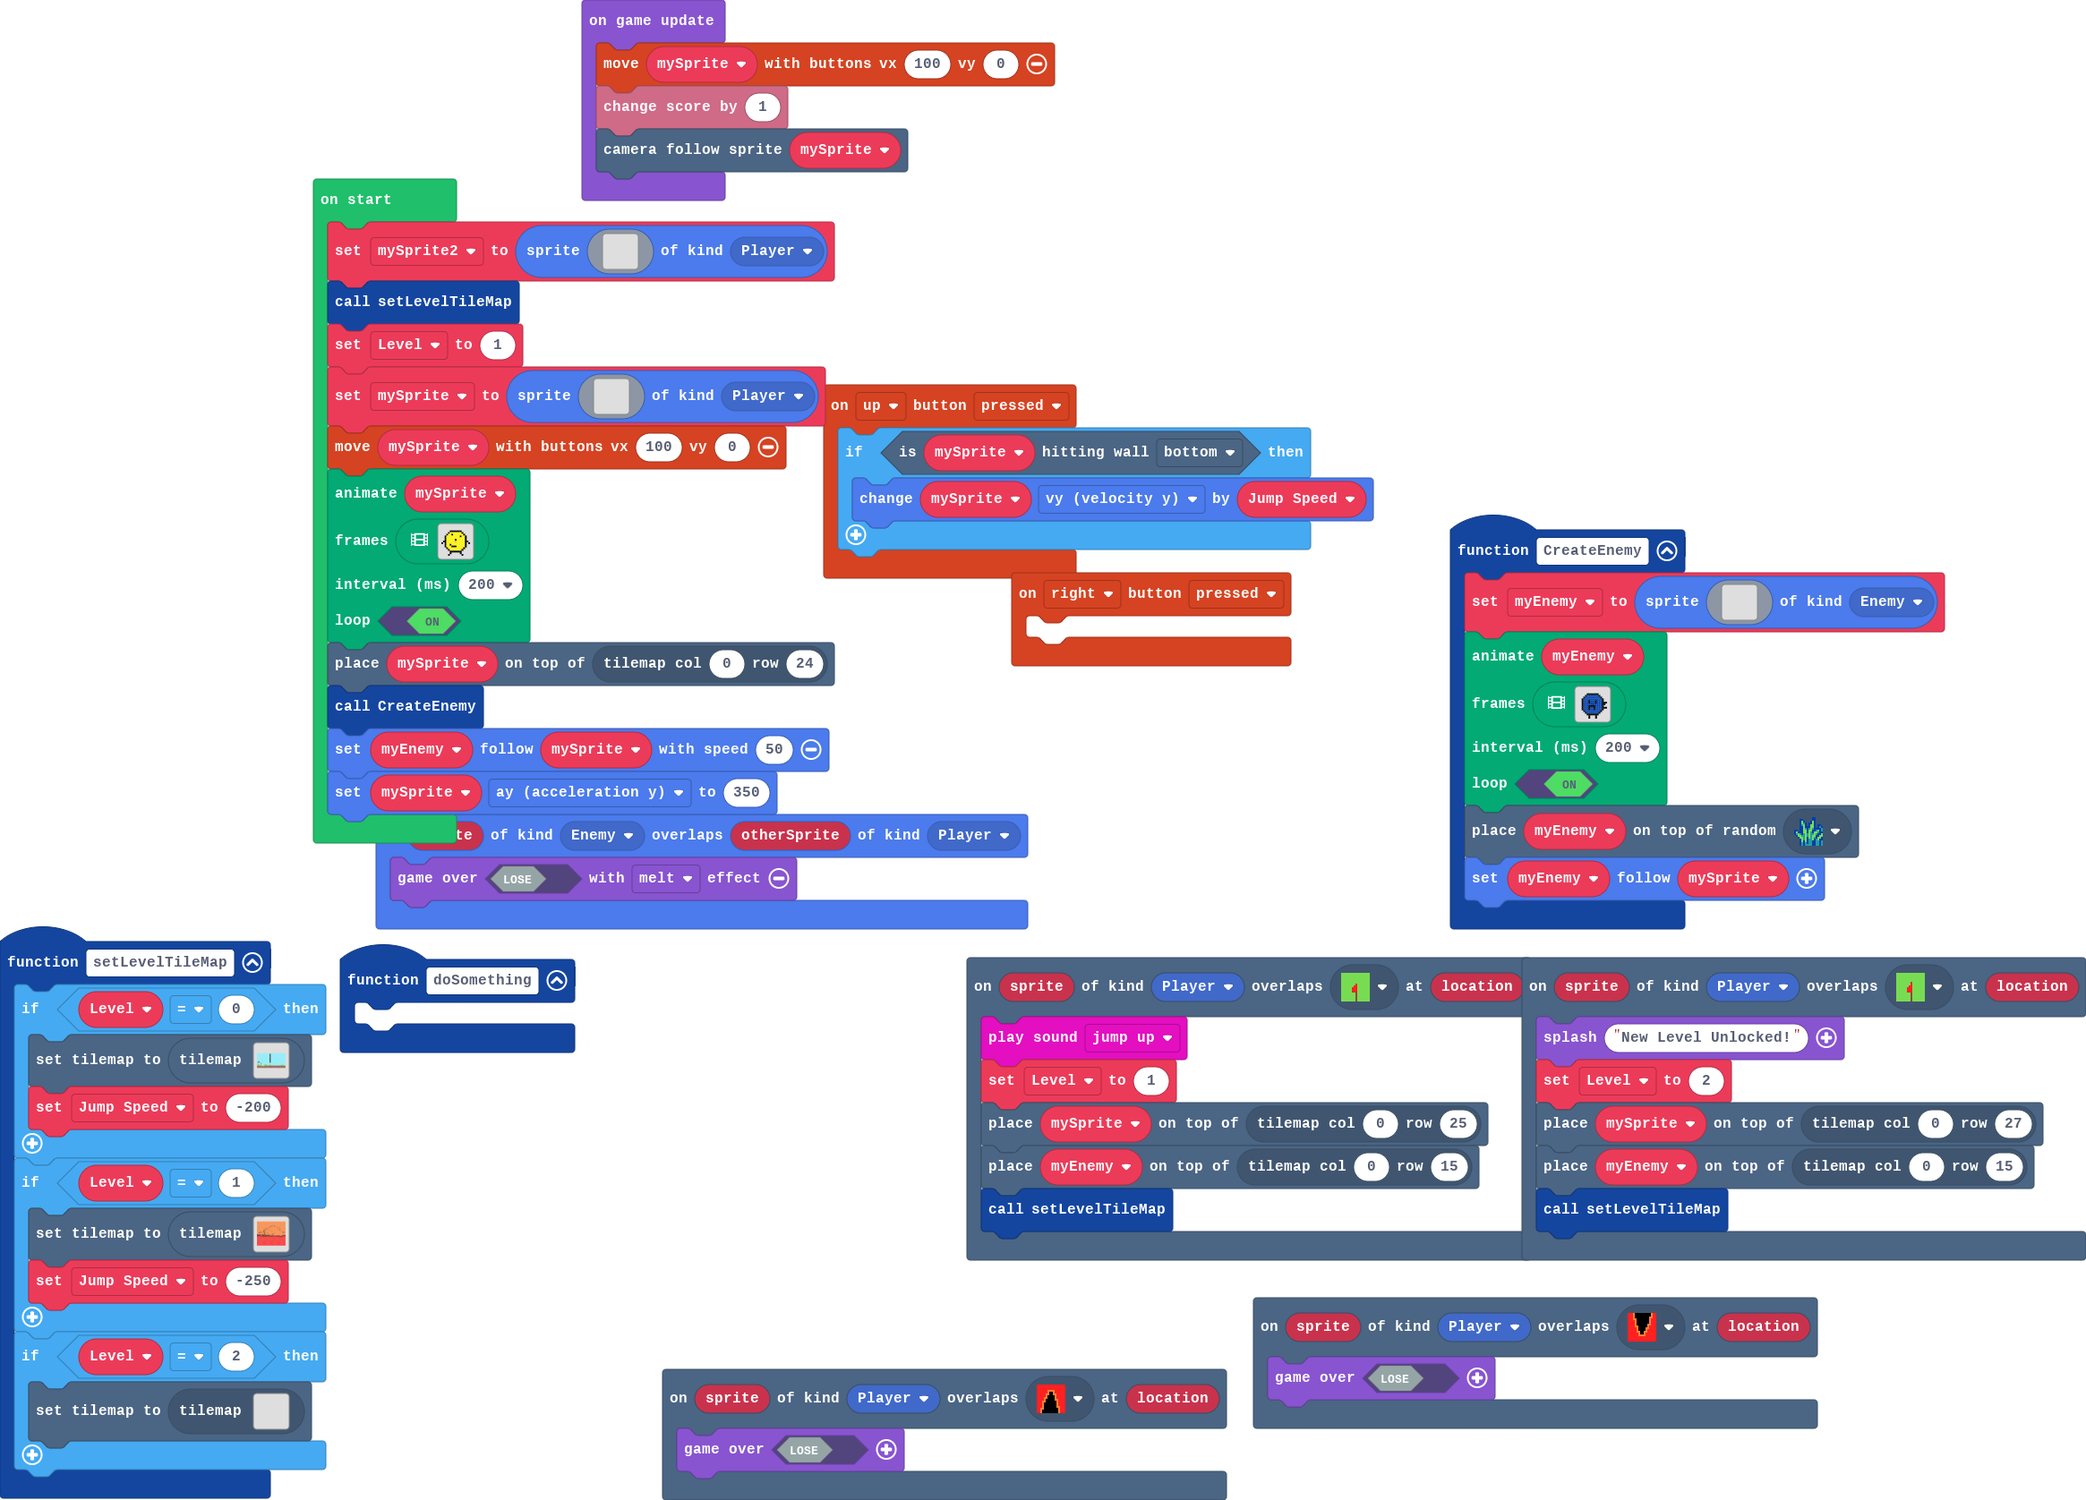
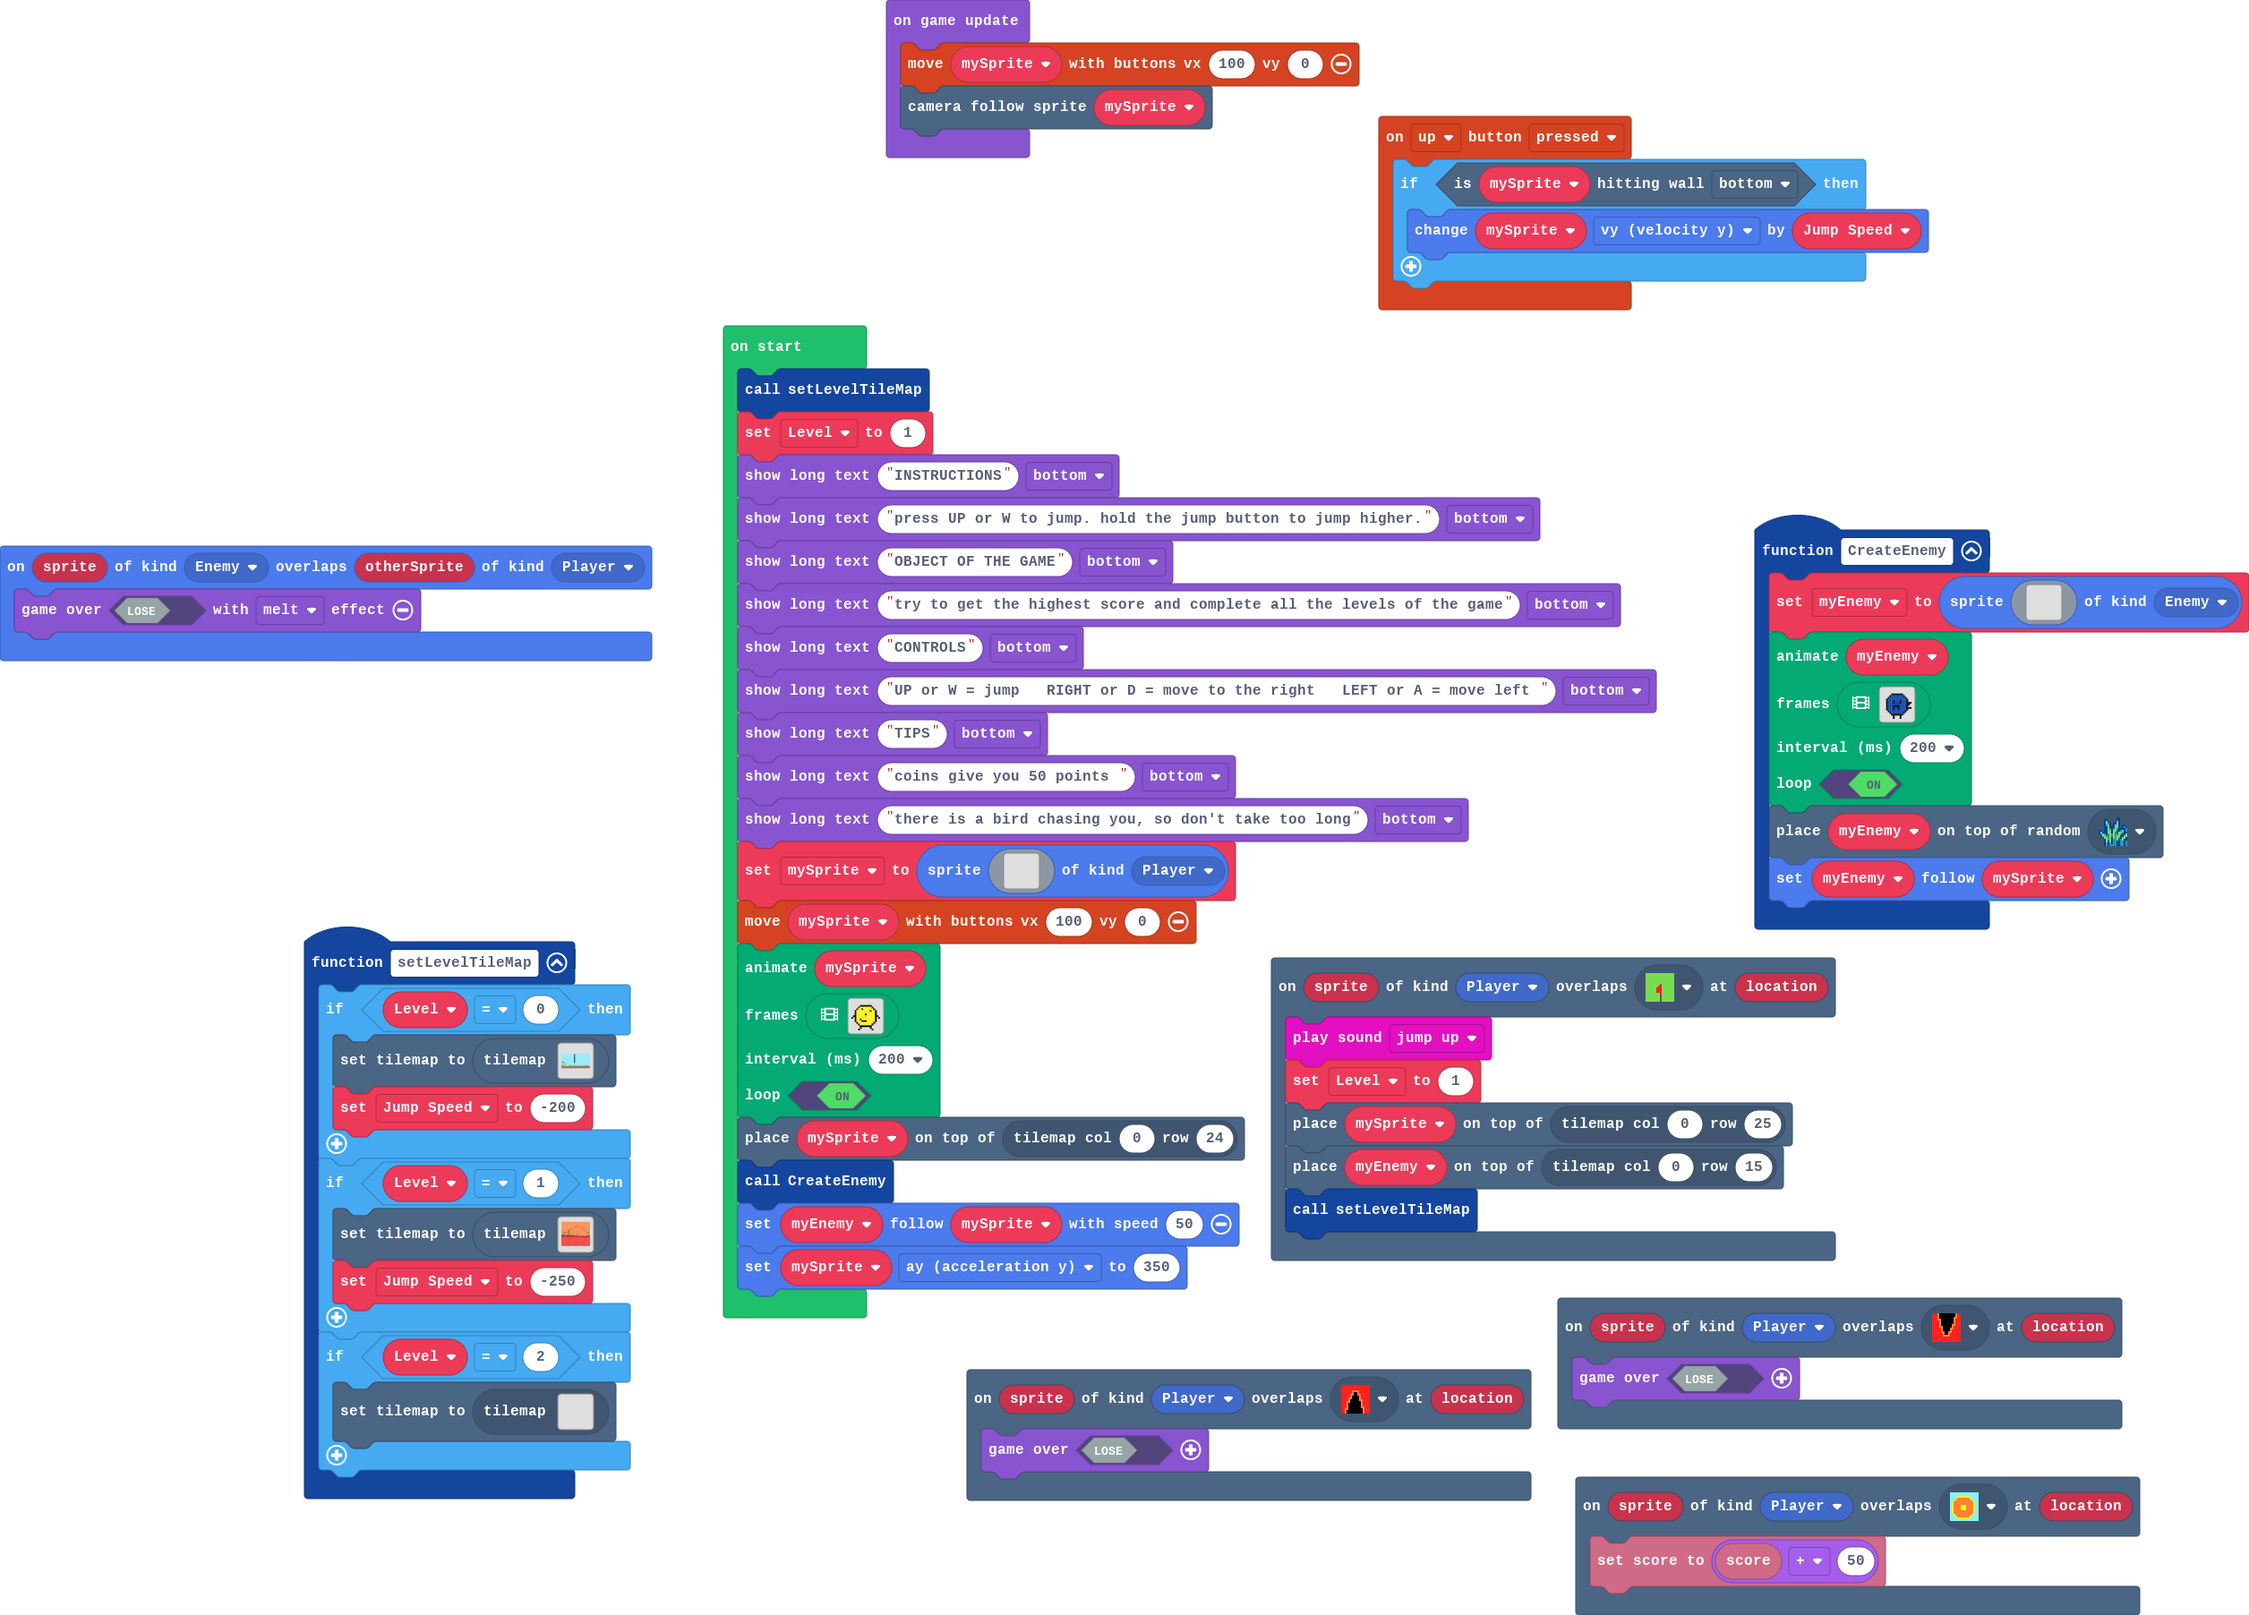
Update main.blocks, main.ts

diff --git a/main.ts b/main.ts
@@ -19,12 +19,9 @@ function setLevelTileMap () {
         tiles.setCurrentTilemap(tilemap`level2`)
     }
 }
-controller.right.onEvent(ControllerButtonEvent.Pressed, function () {
-	
+scene.onOverlapTile(SpriteKind.Player, assets.tile`myTile25`, function (sprite, location) {
+    info.setScore(info.score() + 50)
 })
-function doSomething () {
-	
-}
 sprites.onOverlap(SpriteKind.Enemy, SpriteKind.Player, function (sprite, otherSprite) {
     game.over(false, effects.melt)
 })
@@ -62,13 +59,6 @@ function CreateEnemy () {
     tiles.placeOnRandomTile(myEnemy, sprites.swamp.swampTile0)
     myEnemy.follow(mySprite)
 }
-scene.onOverlapTile(SpriteKind.Player, assets.tile`myTile30`, function (sprite, location) {
-    game.splash("New Level Unlocked!")
-    Level = 2
-    tiles.placeOnTile(mySprite, tiles.getTileLocation(0, 27))
-    tiles.placeOnTile(myEnemy, tiles.getTileLocation(0, 15))
-    setLevelTileMap()
-})
 scene.onOverlapTile(SpriteKind.Player, assets.tile`myTile26`, function (sprite, location) {
     music.jumpUp.play()
     Level = 1
@@ -80,26 +70,17 @@ let Jump_Speed = 0
 let myEnemy: Sprite = null
 let mySprite: Sprite = null
 let Level = 0
-let mySprite2 = sprites.create(img`
-    . . . . . . . . . . . . . . . . 
-    . . . . . . . . . . . . . . . . 
-    . . . . . . . . . . . . . . . . 
-    . . . . . . . . . . . . . . . . 
-    . . . . . . . . . . . . . . . . 
-    . . . . . . . . . . . . . . . . 
-    . . . . . . . . . . . . . . . . 
-    . . . . . . . . . . . . . . . . 
-    . . . . . . . . . . . . . . . . 
-    . . . . . . . . . . . . . . . . 
-    . . . . . . . . . . . . . . . . 
-    . . . . . . . . . . . . . . . . 
-    . . . . . . . . . . . . . . . . 
-    . . . . . . . . . . . . . . . . 
-    . . . . . . . . . . . . . . . . 
-    . . . . . . . . . . . . . . . . 
-    `, SpriteKind.Player)
 setLevelTileMap()
 Level = 1
+game.showLongText("INSTRUCTIONS", DialogLayout.Bottom)
+game.showLongText("press UP or W to jump. hold the jump button to jump higher.", DialogLayout.Bottom)
+game.showLongText("OBJECT OF THE GAME", DialogLayout.Bottom)
+game.showLongText("try to get the highest score and complete all the levels of the game", DialogLayout.Bottom)
+game.showLongText("CONTROLS", DialogLayout.Bottom)
+game.showLongText("UP or W = jump   RIGHT or D = move to the right   LEFT or A = move left ", DialogLayout.Bottom)
+game.showLongText("TIPS", DialogLayout.Bottom)
+game.showLongText("coins give you 50 points ", DialogLayout.Bottom)
+game.showLongText("there is a bird chasing you, so don't take too long", DialogLayout.Bottom)
 mySprite = sprites.create(img`
     . . . . . . . . . . . . . . . . 
     . . . . . . . . . . . . . . . . 
@@ -131,6 +112,5 @@ myEnemy.follow(mySprite, 50)
 mySprite.ay = 350
 game.onUpdate(function () {
     controller.moveSprite(mySprite, 100, 0)
-    info.changeScoreBy(1)
     scene.cameraFollowSprite(mySprite)
 })
